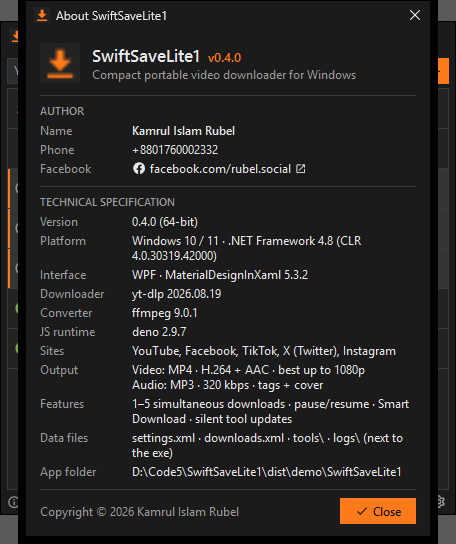
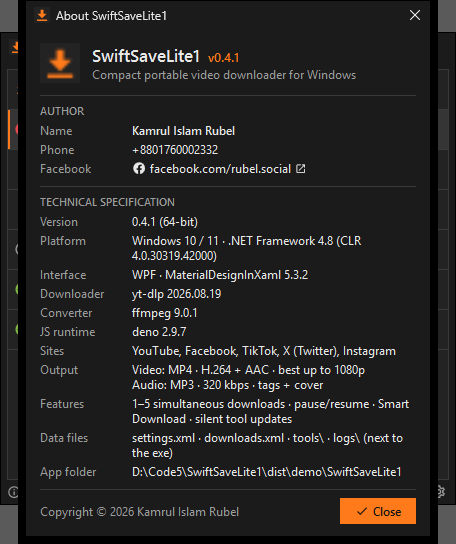
SwiftSaveLite1 0.4.1: user guide and screenshots
"How to fix this" window for failed downloads and the guided
cookies.txt set-up; Sign-in cookies in Settings; new screenshots of
the window, the cookie status and the list; About shows 0.4.1;
download link points to the 0.4.1 zip.

Claude-Session: https://claude.ai/code/session_011nbCMo2mxcYwa7QS2dJttK

diff --git a/README.md b/README.md
@@ -11,11 +11,11 @@
 </p>
 
 <p align="center">
-  <a href="https://github.com/rubeldbc/SwiftSaveLite1-Releases/releases/latest/download/SwiftSaveLite1-0.4.0-win-x64.zip"><img alt="Download" src="https://img.shields.io/badge/Download-SwiftSaveLite1--0.4.0--win--x64.zip-FF7A1A?style=for-the-badge" /></a>
+  <a href="https://github.com/rubeldbc/SwiftSaveLite1-Releases/releases/latest/download/SwiftSaveLite1-0.4.1-win-x64.zip"><img alt="Download" src="https://img.shields.io/badge/Download-SwiftSaveLite1--0.4.1--win--x64.zip-FF7A1A?style=for-the-badge" /></a>
 </p>
 
 <p align="center">
-  <img alt="version" src="https://img.shields.io/badge/version-0.4.0-FF7A1A" />
+  <img alt="version" src="https://img.shields.io/badge/version-0.4.1-FF7A1A" />
   <img alt="platform" src="https://img.shields.io/badge/platform-Windows%2010%20%7C%2011-2D2D2D" />
   <img alt="runtime" src="https://img.shields.io/badge/.NET%20Framework-4.8-512BD4" />
   <img alt="ui" src="https://img.shields.io/badge/UI-WPF%20%2B%20MaterialDesignInXaml%205.3.2-2D2D2D" />
@@ -70,6 +70,7 @@
 - **Survives closing** — partial downloads survive closing the app, a crash or a reboot and continue on the next start.
 - **Duplicate protection** — a link already in the list, or a video already in the download folder, is ignored with a short message.
 - **YouTube bot-check handling** — uses YouTube's embedded player so downloads keep working when YouTube asks "Sign in to confirm you're not a bot"; automatic fallbacks and timed retries.
+- **Help when a download fails** — click the red status icon of a failed download for **How to fix this**: what went wrong and numbered steps for exactly that error, with **Retry** and **Copy details**. Posts that need a signed-in account get a guided `cookies.txt` set-up (exporter links, file check and format fix, per-site coverage).
 - **Self-maintaining** — downloads `yt-dlp`, `ffmpeg` and `deno` on the first start and keeps them up to date silently (running downloads are paused and resumed around an update).
 - **Close to tray** — the window's close button keeps the app running in the notification area (Restore / Exit menu).
 - **Portable and small** — no installer, no registry, no admin rights; the app is 10 MB (3 MB zipped) and keeps all its state in its own folder.
@@ -83,6 +84,8 @@
 | ![Main window](docs/screenshots/readme-main.png) | ![Context menu](docs/screenshots/readme-menu.png) |
 | **Settings** | **About** |
 | ![Settings](docs/screenshots/readme-settings.png) | ![About](docs/screenshots/readme-about.png) |
+| **How to fix this — opened from a failed download** | **Sign-in cookies set up** |
+| ![How to fix this](docs/screenshots/tutorial-fix-help.png) | ![Cookies set up](docs/screenshots/tutorial-fix-cookies.png) |
 | **First start: tools download with speed and ETA** | **Tray menu** |
 | ![First start](docs/screenshots/phase8-tools-download.png) | ![Tray menu](docs/screenshots/phase9-tray-menu.png) |
 
@@ -98,7 +101,7 @@
 
 ## Download & install
 
-1. Download **[`SwiftSaveLite1-0.4.0-win-x64.zip`](https://github.com/rubeldbc/SwiftSaveLite1-Releases/releases/latest/download/SwiftSaveLite1-0.4.0-win-x64.zip)** — or pick any version on the [Releases](https://github.com/rubeldbc/SwiftSaveLite1-Releases/releases) page.
+1. Download **[`SwiftSaveLite1-0.4.1-win-x64.zip`](https://github.com/rubeldbc/SwiftSaveLite1-Releases/releases/latest/download/SwiftSaveLite1-0.4.1-win-x64.zip)** — or pick any version on the [Releases](https://github.com/rubeldbc/SwiftSaveLite1-Releases/releases) page.
 2. Unzip it into a folder you can write to, e.g. `D:\Apps\SwiftSaveLite1` (not `C:\Program Files`).
 3. Run **`SwiftSaveLite1.exe`**.
 
@@ -176,6 +179,12 @@ Each row shows a status icon, the title, a detail line, the size, a thumbnail wi
 | *No video in this post* | The post has no video (text or photos only) |
 | *File missing* | The finished file was moved or deleted outside the app |
 
+**Something went wrong? Click the status icon.** The red icon of a failed download, or the orange hourglass of a download waiting for an automatic retry, opens **How to fix this**: what happened, numbered steps to fix it for exactly this error (sign-in required, age-restricted, bot check, region block, video unavailable, no video in the post, network, stalled, folder, conversion, missing tools, …), **Retry** and **Copy details** (link, error and tool versions to send to the author). For sign-in problems the window also sets up `cookies.txt` — see [cookies](#sign-in-bot-checks-age-limits-and-cookies).
+
+| A failed download and a retry wait | Click the red icon → How to fix this |
+|---|---|
+| ![Failed download in the list](docs/screenshots/tutorial-fix-list.png) | ![How to fix this](docs/screenshots/tutorial-fix-help.png) |
+
 The list is saved to `downloads.xml` and restored on the next start with every item's last status; interrupted downloads continue. With **Delete automatically from download list** on (default) only the **5** most recent finished downloads stay in the list — their files stay on disk.
 
 ### Mouse, keyboard and menus
@@ -228,6 +237,7 @@ Click **⚙** at the right end of the status bar.
 | Close to system tray | **On** | The window's **×** hides the app to the tray instead of exiting |
 | Delete automatically from download list | **On**, keep **5** | Keep only the N most recent finished downloads in the list (0–9999); files are never deleted |
 | Simultaneous downloads | **1** | How many downloads the queue runs at the same time (1–5); applies immediately, also to running downloads |
+| Sign-in cookies | not set | Shows which sites `cookies.txt` has cookies for; **Set up…** opens the step-by-step guide with **Choose cookies file…** |
 
 Changes are saved immediately to `settings.xml`.
 
@@ -280,7 +290,14 @@ YouTube sometimes answers a network with **"Sign in to confirm you're not a bot"
 
 For lasting blocks, **age-restricted** or **members-only** videos, let yt-dlp use the cookies of a signed-in browser:
 
-- **cookies.txt** — export your cookies (YouTube, Instagram, Facebook, …) in Netscape format with a browser extension and save the file as `cookies.txt` next to `SwiftSaveLite1.exe`. It is picked up automatically.
+- **cookies.txt (recommended)** — the easiest way is the app itself: click the red status icon of the failed download (or **⚙ Settings → Sign-in cookies → Set up…**). The window walks you through it:
+  1. Sign in to the site (instagram.com, facebook.com, youtube.com, …) in Chrome, Edge or Firefox.
+  2. Install a cookies exporter: [Get cookies.txt LOCALLY](https://chromewebstore.google.com/detail/get-cookiestxt-locally/cclelndahbckbenkjhflpdbgdldlbecc) for Chrome / Edge or [cookies.txt](https://addons.mozilla.org/en-US/firefox/addon/cookies-txt/) for Firefox (the extensions yt-dlp recommends; avoid the look-alike "Get cookies.txt" without "LOCALLY", it was malware).
+  3. On the site, click the extension's icon and export the cookies (Netscape format) — the file lands in your Downloads folder.
+  4. **Choose cookies file…** — the app checks the file, adds the `# Netscape HTTP Cookie File` header if it is missing, converts the line ends to CRLF (yt-dlp answers LF files with HTTP 400) and saves it as `cookies.txt` next to `SwiftSaveLite1.exe`. The window then shows which sites the file covers.
+  5. **Retry** — the failed downloads of that site start again.
+
+  You can also copy the exported file next to the exe yourself and rename it to `cookies.txt`. It is used for every download from then on. Cookies expire; when the sign-in message comes back, export a new file.
 - **Browser cookies** — or set `<CookiesFromBrowser>firefox</CookiesFromBrowser>` in `settings.xml` (see below). `edge`, `chrome`, `brave`, `opera` and others work too; Chromium-based browsers may need to be closed first.
 
 > Treat `cookies.txt` like a password — it gives access to your accounts. Never share it.
@@ -362,13 +379,13 @@ Check the internet connection and any proxy or firewall that might block `github
 <details>
 <summary><b>A video fails with "YouTube bot check" or "rate limit (HTTP 429)"</b></summary>
 
-The app retries on its own (countdown in the list). Downloading a lot in a short time makes YouTube throttle your network, so waiting helps. For a lasting block put a `cookies.txt` next to the exe (see [cookies](#youtube-bot-checks-age-limits-and-cookies)).
+The app retries on its own (countdown in the list). Downloading a lot in a short time makes YouTube throttle your network, so waiting helps. For a lasting block put a `cookies.txt` next to the exe (see [cookies](#sign-in-bot-checks-age-limits-and-cookies)).
 </details>
 
 <details>
 <summary><b>"Instagram requires sign-in for this post" / "TikTok blocks this post for your network or region"</b></summary>
 
-Put a `cookies.txt` exported from a browser where you are signed in to that site next to the exe (see [cookies](#sign-in-bot-checks-age-limits-and-cookies)) and use **Retry**. Region blocks can only be avoided from another network.
+Click the red status icon of the download: the **How to fix this** window explains the steps and sets up `cookies.txt` from a browser where you are signed in to that site (see [cookies](#sign-in-bot-checks-age-limits-and-cookies)); then click **Retry**. Region blocks can only be avoided from another network.
 </details>
 
 <details>
@@ -429,6 +446,7 @@ The exe is not code-signed and `yt-dlp.exe` is sometimes flagged generically. Al
 
 | Version | Highlights |
 |---|---|
+| **0.4.1** | Click the status icon of a failed (or retry-waiting) download for **How to fix this** — detailed steps per error, Retry, Copy details; guided **cookies.txt** set-up with exporter links, file check and format fix (**Choose cookies file…**) and per-site coverage; ⚙ Settings → Sign-in cookies; TikTok region blocks reported separately from sign-in |
 | **0.4.0** | **Facebook, TikTok, X (Twitter) and Instagram** links — paste, link box and Smart Download; share links (`fb.watch`, `vm.tiktok.com`, `t.co`, …) expanded before queueing; best version up to 1080p on every site; site badge and thumbnails from the posts; per-site error messages (sign-in, region block, no video) and per-site rate-limit waits; MP3 and MP4 of the same video can download at the same time |
 | **0.3.0** | (not released separately — included in 0.4.0) Video / audio toggle in the status bar (MP4 or **MP3 320 kbps** with tags and cover); **Simultaneous downloads** setting (1–5, applied live); Smart Download fix: a link copied before the start or while the tools download on the first start is now queued, and copying the same link again works; About: click the app icon to open the app folder |
 | **0.2.1** | Close to system tray (default on) with a **Restore** / **Exit** tray menu; tray tooltip with queue counts; a second start restores the hidden window |
